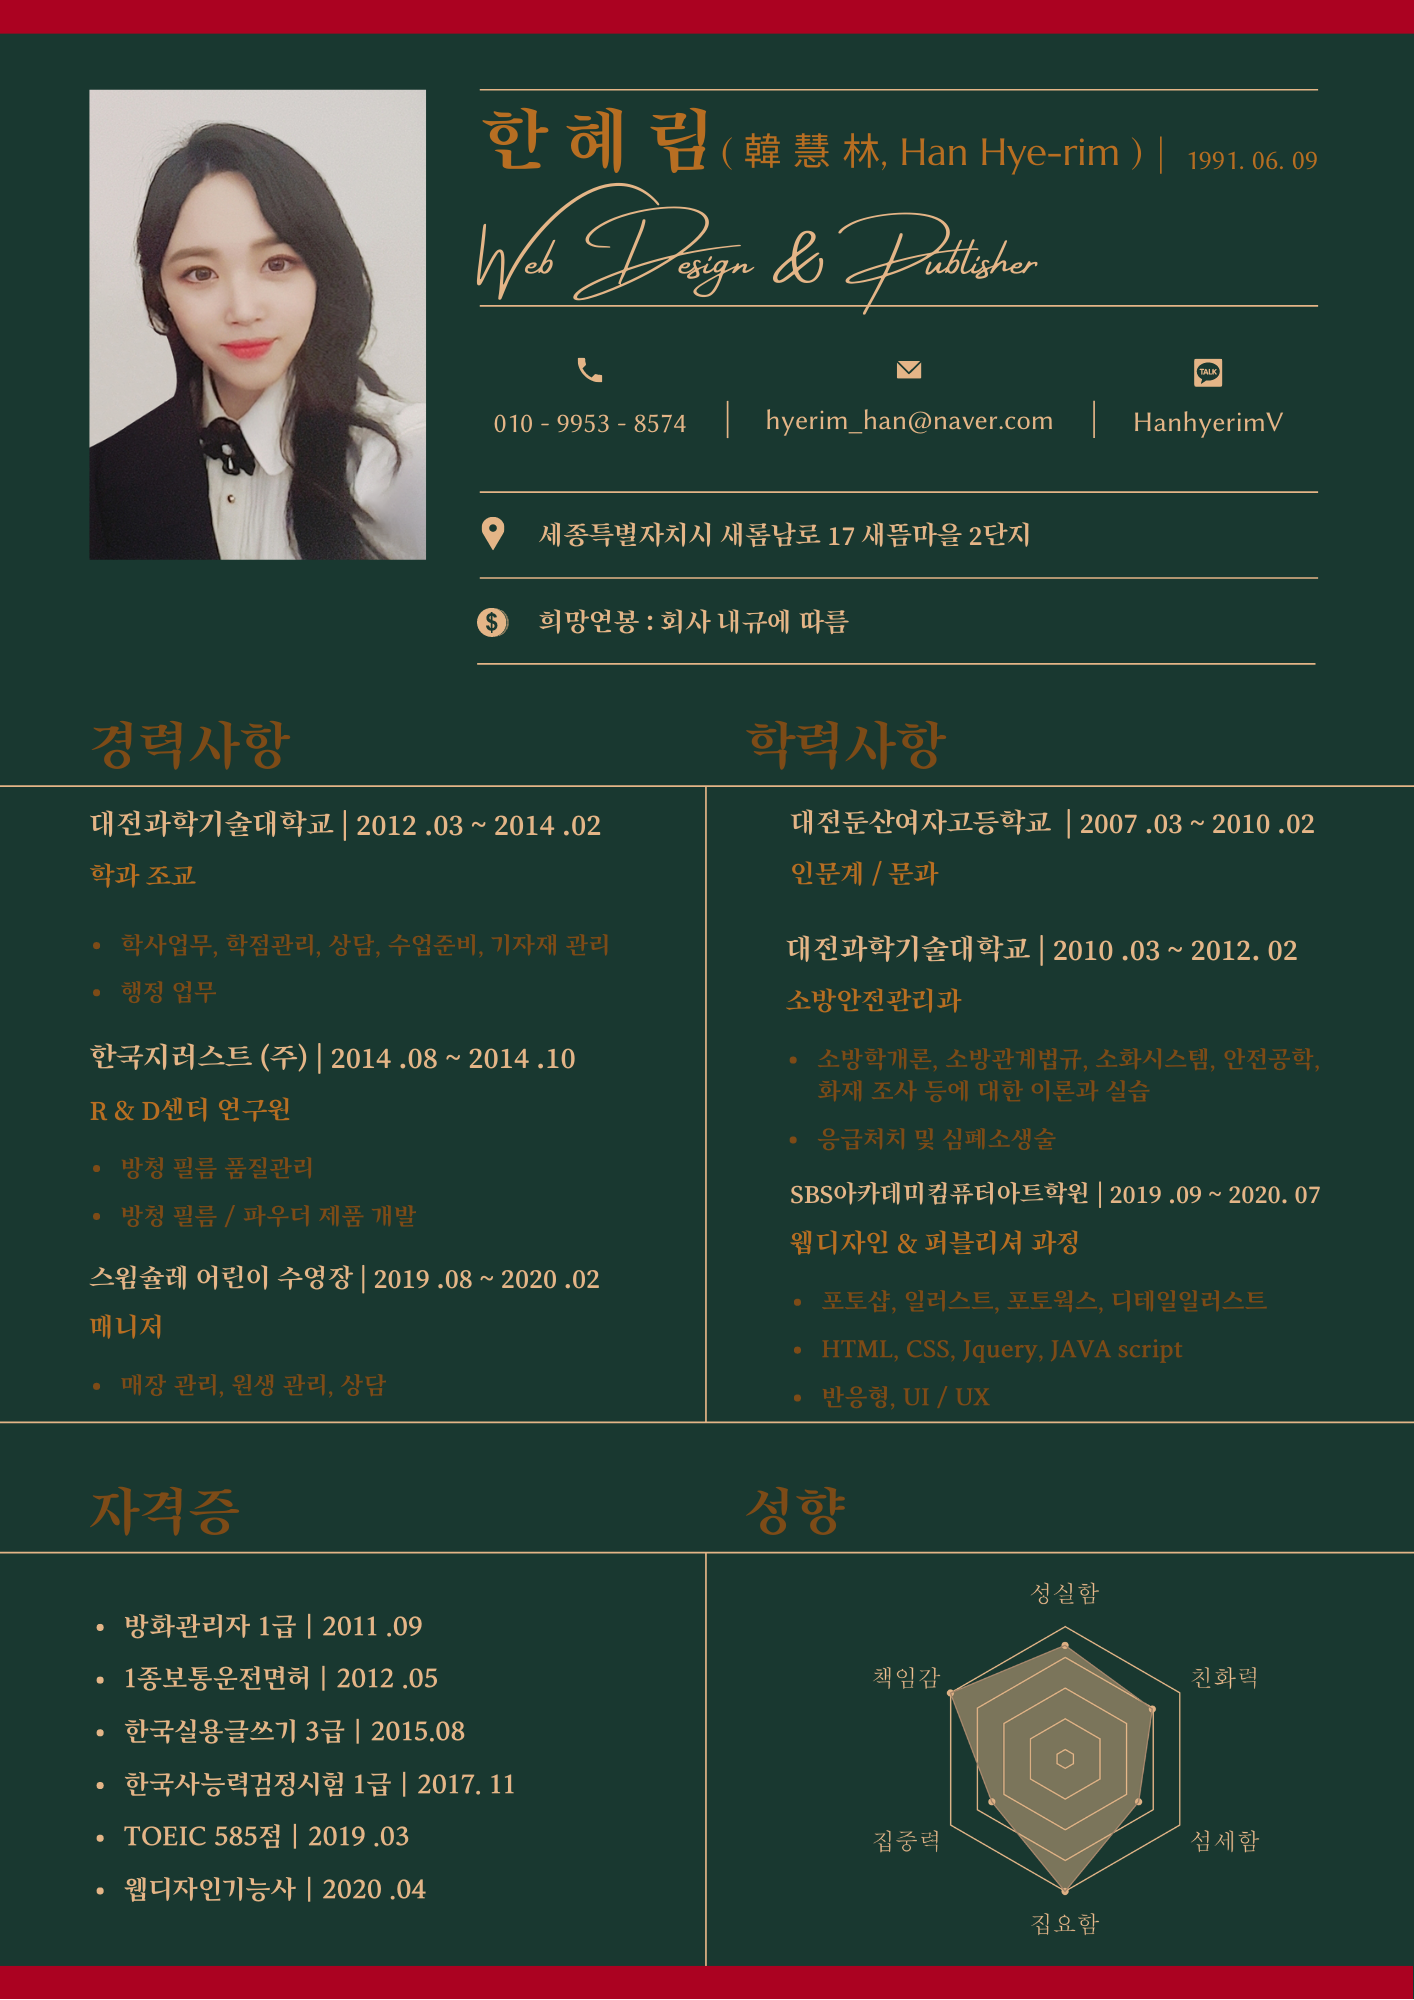
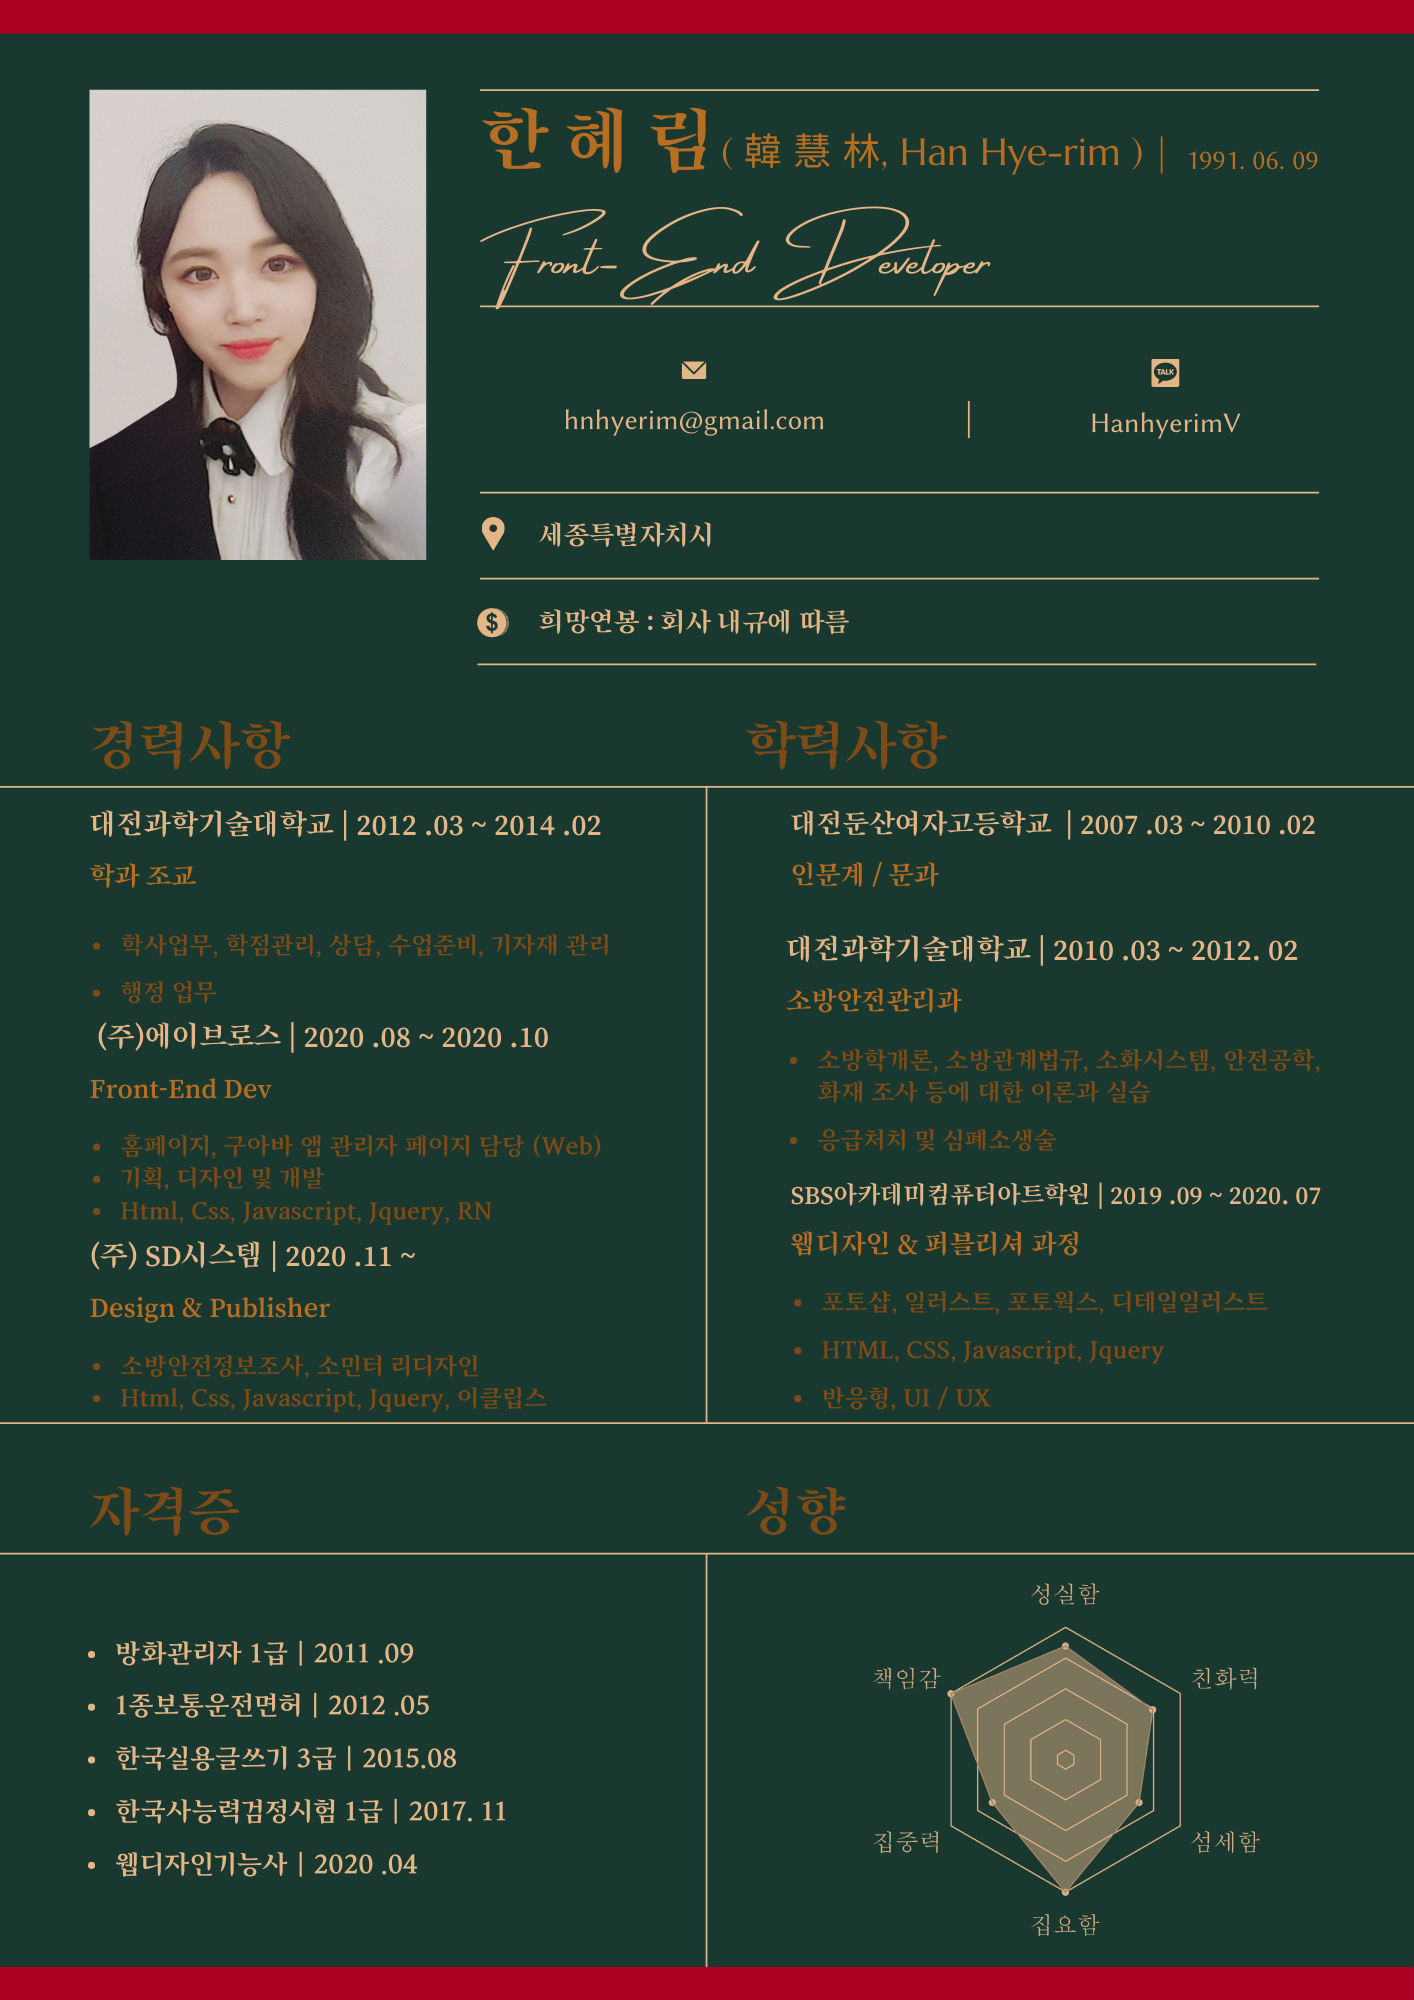
포트폴리오수정 1차

diff --git a/index.html b/index.html
@@ -22,9 +22,9 @@
           <div class="header--nav-toggle">
             <span></span>
           </div>
-          <header class="header">
+          <!-- <header class="header">
             <a class="header--logo" href="#0">Web Design &amp; Publisher Hye-rim's Portfolio</a>
-          </header>
+          </header> -->
           <nav class="l-side-nav">
             <ul class="side-nav">
               <li class="is-active">●<span>Main</span></li>
@@ -65,33 +65,24 @@
                       <p>한 혜 림</p>
                     </li>
                     <li>
-                      <h3>Date of Birth</h3>
-                      <p>91. 06. 09</p>
-                    </li>
-                    <li>
-                      <h3>Education</h3>
-                      <p>대전둔산여자고등학교 졸업</p>
-                      <p>대전과학기술대학교 소방안전관리과 졸업</p>
-                      <p>
-                        SBS아카데미컴퓨터아트학원 웹디자인/퍼블리셔 학과 수료
-                      </p>
-                    </li>
-                    <li>
-                      <h3>Certificate</h3>
-                      <p>방화관리자 1급</p>
-                      <p>1종 보통 운전면허</p>
-                      <p>한국실용글쓰기 3급</p>
-                      <p>한국사능력검정 1급</p>
-                      <p>TOEIC 585점</p>
-                      <p>웹디자인기능사</p>
-                    </li>
-                    <li>
                       <h3>Moto</h3>
                       <p>
                         There's no such thing as a free lunch.
                       </p>
                     </li>
-
+                    <li class="mbti">
+                      <h3>MBTI</h3>
+                      <p>ISFJ</p>
+                      <ul>
+                        <li><p>내성적이면서 사회적인 성향</p></li>
+                        <li><p>다정하고 섬세하다.</p></li>
+                        <li><p>성실하고 계획적이다.</p></li>
+                        <li><p>재미없고 의미없는 일이라도 끝까지 한다.</p></li>
+                        <li><p>자신에게 주어진 일을 열심히 한다.</p></li>
+                        <li><p>타고난 집순이</p></li>
+                        <li><p>게으른 완벽주의자</p></li>
+                      </ul>
+                    </li>
                     <div class="resume-view"><a class="view" href="#">
                         <p>Resume<i class="fas fa-arrow-right"></i></p>
                         <span></span>
@@ -297,18 +288,17 @@
                   <div class="flipper">
                     <div class="front">
                       <img src="images/flower1.gif" alt="">
-                      <h3 class="content"><span>G</span>et in touch with me !</h3>
-                      <div></div>
+                      <h3 class="content"><span>G</span>et in touch with me</h3>
                     </div>
                     <div class="back">
                       <ul class="touch-inner">
-                        <li>
+                        <!-- <li>
                           <h4><i class="fas fa-mobile-alt"></i>Phone_</h4>
                           <p>+82 10-9953-8574</p>
-                        </li>
+                        </li> -->
                         <li>
                           <h4><i class="far fa-envelope-open"></i>E-mail_</h4>
-                          <p>hyerim_han@naver.com</p>
+                          <p>hnhyerim@gmail.com</p>
                         </li>
                         <li>
                           <h4><i class="fas fa-comment"></i></i>Kakao_</h4>

diff --git a/css/style.css b/css/style.css
@@ -742,13 +742,21 @@ body {
   box-shadow: -5px 5px 10px #000;
 }
 
-.about--banner .profile li {
-  margin-bottom: 20px;
+.about--banner .profile>li {
+  margin-bottom: 50px;
 }
+
+.about--banner .profile .mbti li p {
+  font-size: 17px;
+}
+
+/* .about--banner .profile li:last-of-type {
+  margin-bottom: 150px;
+} */
 
 .about--banner .profile li h3 {
   font-family: granjon;
-  font-size: 25px;
+  font-size: 35px;
   position: relative;
   margin-bottom: 5px;
   background: url(../images/gold-texture.jpg) no-repeat center;
@@ -771,7 +779,7 @@ body {
 
 .about--banner .profile li p {
   font-family: "NapjakBlock";
-  font-size: 17px;
+  font-size: 22px;
   font-weight: normal;
   color: #bd9e43;
 }
